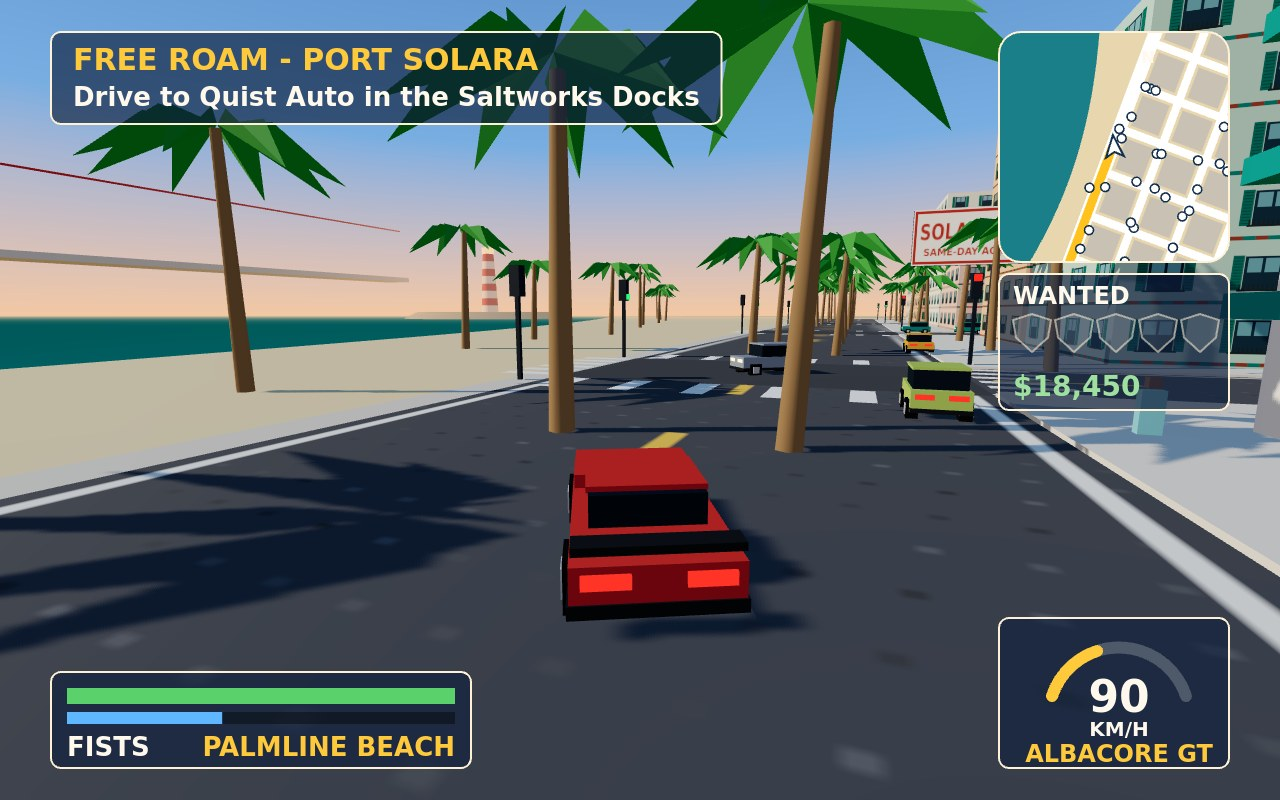
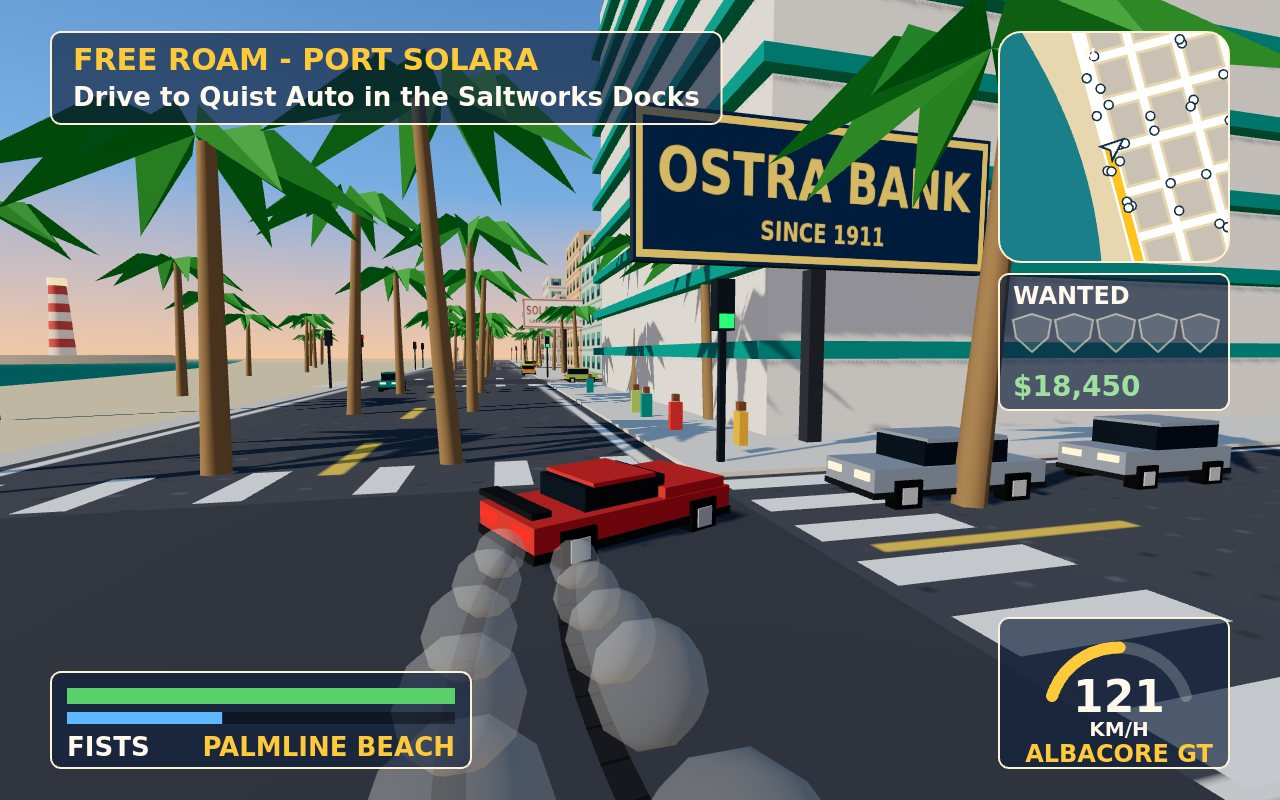
M2 step 6: re-staged 1-chase.jpg (Albacore handbrake-drifts through the Palmline x Rua 5 crossing with skid marks and smoke, traffic held at the red, walkers on the corner), PedestrianCrowd.gatherNear staging, lighter tyre smoke, re-shot 2 and 4

diff --git a/game/src/vehicles/skid-marks-and-smoke.js b/game/src/vehicles/skid-marks-and-smoke.js
@@ -12,7 +12,7 @@ export class SkidMarksAndSmoke {
       polygonOffset: true, polygonOffsetFactor: -2, polygonOffsetUnits: -2,
     }), MARKS);
     this.puffs = new THREE.InstancedMesh(new THREE.IcosahedronGeometry(1, 1), new THREE.MeshLambertMaterial({
-      color: 0xeeebe4, transparent: true, opacity: 0.5, depthWrite: false,
+      color: 0xeeebe4, transparent: true, opacity: 0.38, depthWrite: false,
     }), PUFFS);
     this.marks.frustumCulled = this.puffs.frustumCulled = false;
     this.marks.renderOrder = 1;
@@ -40,8 +40,8 @@ export class SkidMarksAndSmoke {
     if (sliding) {
       const wheels = rearWheels(car);
       if (this.prev && this.prev.car === car) wheels.forEach((w, i) => this.layStrip(this.prev.wheels[i], w));
-      const heavy = Math.min(1, car.slip / 7);
-      wheels.forEach((w, i) => { if (heavy > 0.45 || (this.ticks + i) % 2 === 0) this.emit(w, car, i); });
+      const every = car.slip > 5 ? 3 : 5;
+      wheels.forEach((w, i) => { if ((this.ticks + i * 2) % every === 0) this.emit(w, car, i); });
       this.prev = { car, wheels };
     } else this.prev = null;
 
@@ -52,7 +52,7 @@ export class SkidMarksAndSmoke {
       s.x += s.vx * dt; s.y += s.vy * dt; s.z += s.vz * dt;
       s.vx *= 0.97; s.vz *= 0.97;
       const k = s.age / LIFE;
-      const size = k >= 1 ? 0 : (0.45 + k * 1.9) * (k > 0.7 ? (1 - k) / 0.3 : 1);
+      const size = k >= 1 ? 0 : (0.3 + k * 1.15) * (k > 0.6 ? (1 - k) / 0.4 : 1);
       this.p.set(s.x, s.y, s.z);
       this.s.setScalar(size);
       this.m.compose(this.p, this.q.identity(), this.s);
@@ -78,10 +78,10 @@ export class SkidMarksAndSmoke {
     const s = this.smoke[this.nextPuff];
     this.nextPuff = (this.nextPuff + 1) % PUFFS;
     const r1 = hash(this.ticks * 2 + i), r2 = hash(this.ticks * 2 + i + 0.5);
-    s.x = w.x; s.y = 0.35; s.z = w.z;
-    s.vx = -car.vx * 0.12 + (r1 - 0.5) * 1.6;
-    s.vz = -car.vz * 0.12 + (r2 - 0.5) * 1.6;
-    s.vy = 0.9 + r1 * 0.8;
+    s.x = w.x; s.y = 0.3; s.z = w.z;
+    s.vx = car.vx * 0.35 + (r1 - 0.5) * 1.4;
+    s.vz = car.vz * 0.35 + (r2 - 0.5) * 1.4;
+    s.vy = 0.6 + r1 * 0.6;
     s.age = 0;
   }
 }
@@ -96,4 +96,4 @@ function rearWheels(car) {
 const hash = (n) => { const v = Math.sin(n * 12.9898) * 43758.5453; return v - Math.floor(v); };
 
 export const MARKS = 600;
-const PUFFS = 72, LIFE = 1.3, MARK_Y = 0.085;
+const PUFFS = 48, LIFE = 1.0, MARK_Y = 0.085;

diff --git a/game/src/people/pedestrian-crowd.js b/game/src/people/pedestrian-crowd.js
@@ -86,6 +86,30 @@ export class PedestrianCrowd {
     for (const w of this.walkers) if (Math.hypot(w.x - x, w.z - z) < radius) w.flee = 3;
   }
 
+  // Staging (shots and tests): put `count` walkers on the block rings closest to a spot, each at
+  // the ring point nearest it plus a seeded spread, so a scene can start with a busy corner.
+  gatherNear(x, z, count, spread = 14) {
+    const blocks = [...this.game.roads.blocks].sort((a, b) => Math.hypot(a.cx - x, a.cz - z) - Math.hypot(b.cx - x, b.cz - z));
+    for (let i = 0; i < Math.min(count, this.walkers.length); i++) {
+      const w = this.walkers[i], b = blocks[i % 2];
+      w.ring = { minX: b.minX - 1.5, maxX: b.maxX + 1.5, minZ: b.minZ - 1.5, maxZ: b.maxZ + 1.5 };
+      const r = w.ring, a = r.maxX - r.minX, h = r.maxZ - r.minZ;
+      r.len = 2 * (a + h);
+      // Ring parameter of the corner point nearest the spot, then walk a little way from it.
+      const cx = Math.max(r.minX, Math.min(r.maxX, x)), cz = Math.max(r.minZ, Math.min(r.maxZ, z));
+      let u;
+      if (cz === r.minZ) u = cx - r.minX;
+      else if (cx === r.maxX) u = a + (cz - r.minZ);
+      else if (cz === r.maxZ) u = a + h + (r.maxX - cx);
+      else u = 2 * a + h + (r.maxZ - cz);
+      w.u = u + this.random.range(-spread, spread);
+      w.dir = this.random.chance(0.5) ? 1 : -1;
+      w.speed = this.random.range(1.1, 1.6);
+      w.flee = 0; w.side = 0;
+      this.place(w);
+    }
+  }
+
   near(x, z, radius = 30) {
     return this.walkers.filter((w) => w.ring && Math.abs(w.x - x) < radius && Math.abs(w.z - z) < radius);
   }

diff --git a/game/src/dev/screenshot-scenes.js b/game/src/dev/screenshot-scenes.js
@@ -14,14 +14,16 @@ export function stageScreenshotScene(game, name) {
 }
 
 export const SCENES = {
-  // Driving the Albacore north up Palmline Boulevard, the Sundial Tower ahead.
+  // The Albacore, just taken from the curb, handbrake-drifts through the Palmline crossing with
+  // Rua 5: skid marks and smoke, traffic held at the lights, walkers on the corners jumping clear.
   chase(game, hold) {
+    hold([], 600);
+    game.crowd.gatherNear(-170, -26, 8, 9);
     game.startPlay();
-    game.player.x = game.albacore.x + 2; game.player.z = game.albacore.z;
+    game.player.x = game.albacore.x - 2.2; game.player.z = game.albacore.z;
     game.enterOrExit();
-    hold(['KeyW'], 200);
-    hold(['KeyW', 'KeyA'], 10);
-    hold(['KeyW'], 30);
+    hold(['KeyW'], 144);
+    hold(['KeyW', 'KeyD', 'Space'], 22);
   },
   // Wren on foot in Old Mercado's market square, the Clock Arch ahead and a Pipit to take.
   street(game, hold) {

diff --git a/game/src/dev/test-hooks.js b/game/src/dev/test-hooks.js
@@ -69,7 +69,7 @@ export function exposeTestHooks(game) {
       this.key('KeyA', true); this.key('Space', true); this.step(42);
       const slip = game.vehicle.slip;
       ['KeyW', 'KeyA', 'Space'].forEach((k) => this.key(k, false));
-      return { slip: +slip.toFixed(1), marksLaid: t.nextMark - marksBefore, puffsAlive: t.smoke.filter((s) => s.age < 1.3).length };
+      return { slip: +slip.toFixed(1), marksLaid: t.nextMark - marksBefore, puffsAlive: t.smoke.filter((s) => s.age < 1).length };
     },
     enterNearest() { game.input.setKey('KeyF', true); game.step(); game.input.setKey('KeyF', false); return this.snapshot(); },
     perf(frames = 30) {
